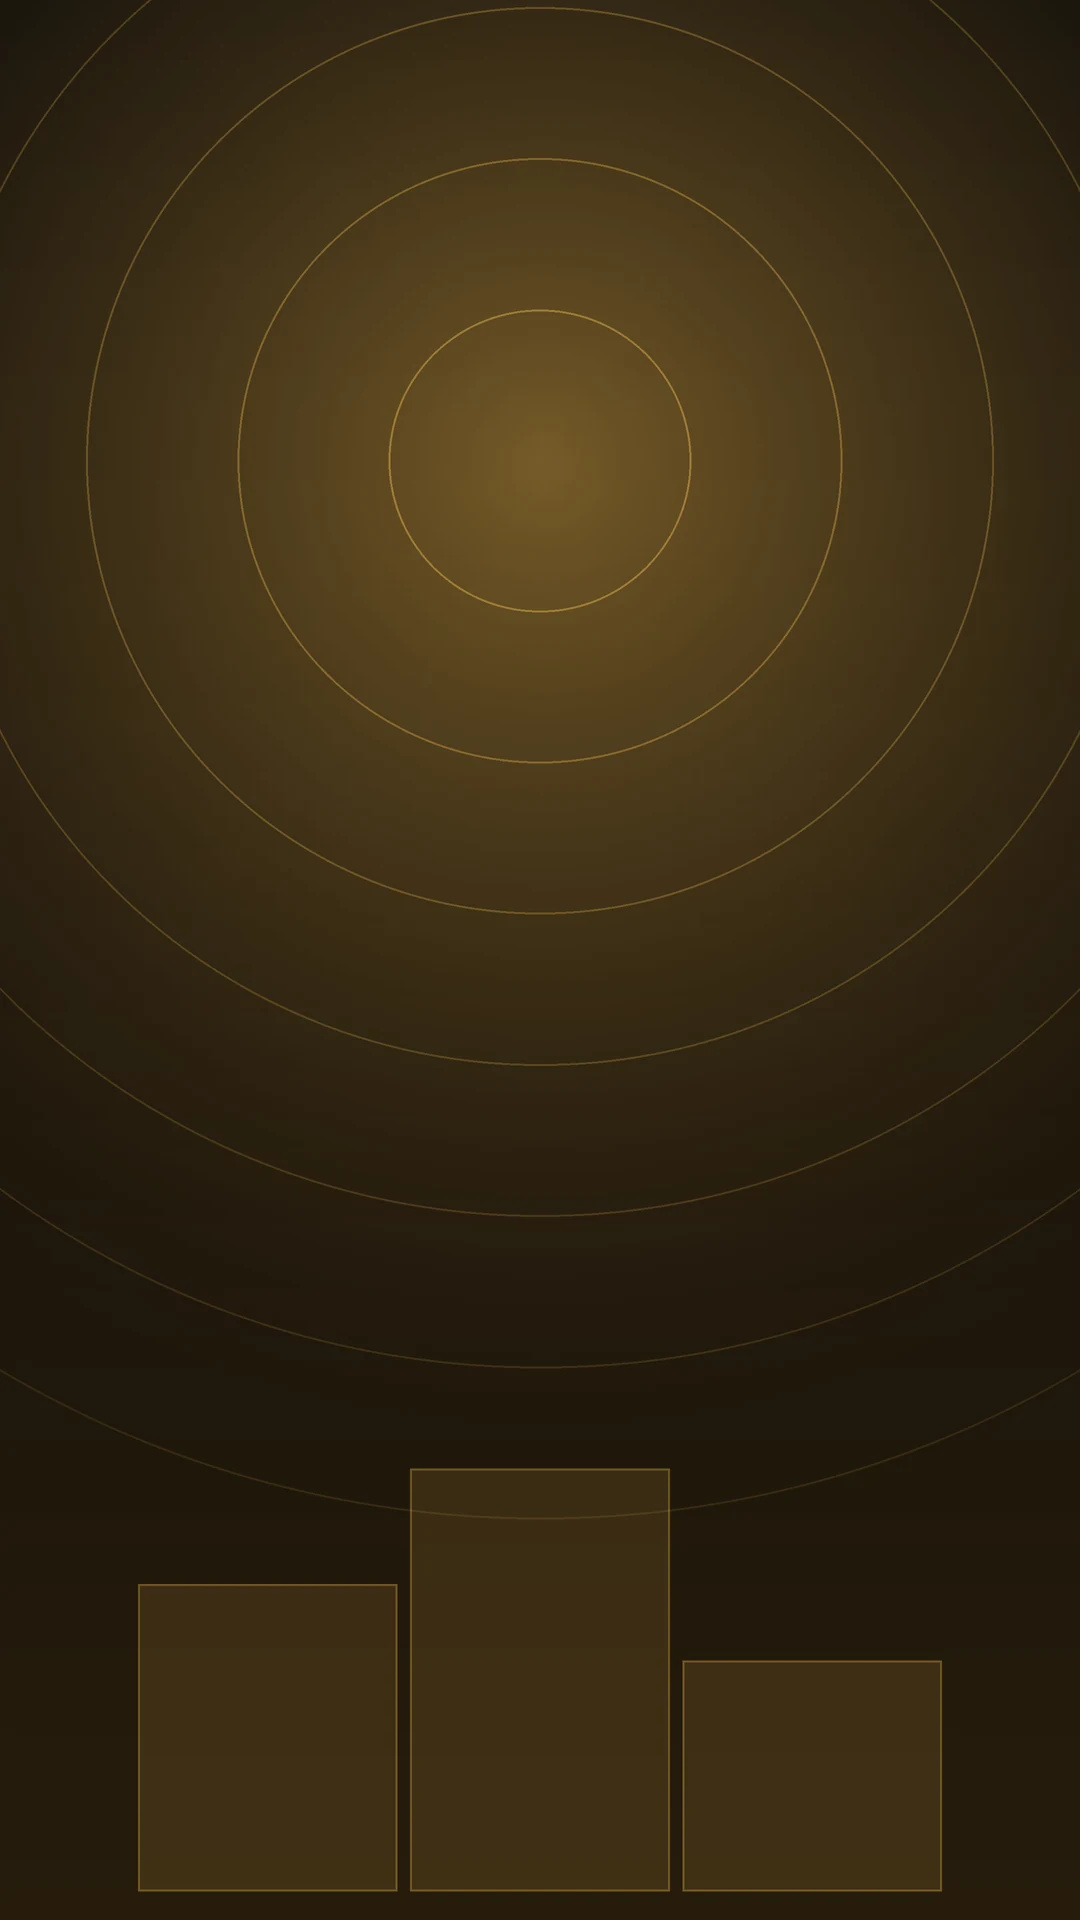
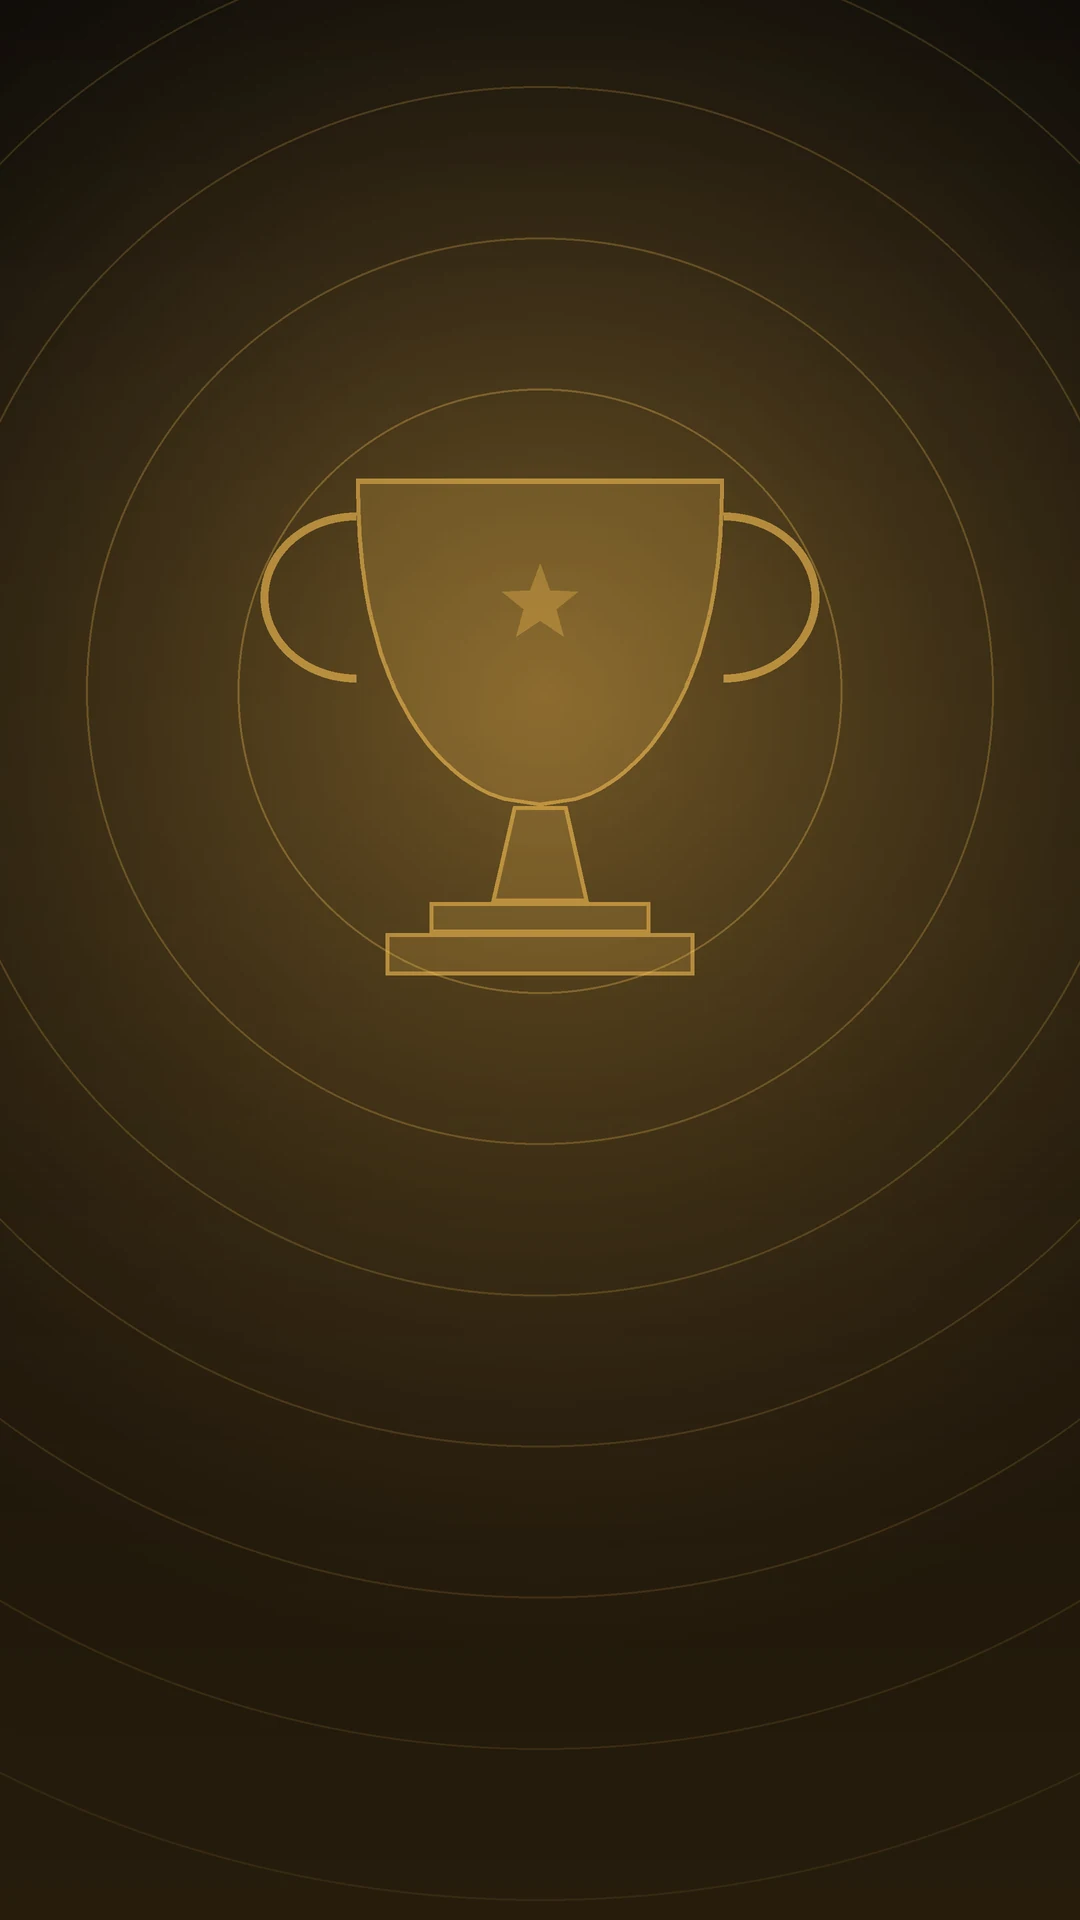
Фоны: у чемпионов кубок, у финалов (выбор, настройка, итоги) пьедесталы

diff --git a/lib/screens/finals_screen.dart b/lib/screens/finals_screen.dart
@@ -1,3 +1,4 @@
+import '../widgets/app_backdrop.dart';
 import 'finals_voice_settings_screen.dart';
 import '../finals/voice_packs.dart';
 import 'dart:math' as math;
@@ -42,7 +43,7 @@ class _FinalsScreenState extends State<FinalsScreen> {
       appBar: GlassHeader(
         title: Text(tr('Финалы'), style: theme.textTheme.titleMedium?.copyWith(fontWeight: FontWeight.w600)),
       ),
-      body: ListView(
+      body: AppBackdrop(kind: 'finals', child: ListView(
         padding: EdgeInsets.fromLTRB(16, MediaQuery.paddingOf(context).top + GlassHeader.height + 8, 16, 24),
         children: [
           Text(tr('Выберите финал'), style: theme.textTheme.titleSmall),
@@ -132,7 +133,7 @@ class _FinalsScreenState extends State<FinalsScreen> {
                 ),
               ),
         ],
-      ),
+      )),
     );
   }
 }
@@ -351,7 +352,7 @@ class _FinalSetupScreenState extends State<FinalSetupScreen> {
       appBar: GlassHeader(
         title: Text(tr(f.nameKey), style: theme.textTheme.titleMedium?.copyWith(fontWeight: FontWeight.w600), overflow: TextOverflow.ellipsis),
       ),
-      body: Column(
+      body: AppBackdrop(kind: 'finals', child: Column(
         children: [
           Expanded(
             child: ListView(
@@ -492,7 +493,7 @@ class _FinalSetupScreenState extends State<FinalSetupScreen> {
             ),
           ),
         ],
-      ),
+      )),
     );
   }
 }

diff --git a/lib/screens/final_run_screen.dart b/lib/screens/final_run_screen.dart
@@ -1,3 +1,4 @@
+import '../widgets/app_backdrop.dart';
 import 'dart:async';
 import 'dart:math' as math;
 
@@ -890,7 +891,7 @@ class FinalResultScreen extends StatelessWidget {
     return Scaffold(
       extendBodyBehindAppBar: true,
       appBar: GlassHeader(title: Text(title ?? tr('Итоги финала'), style: theme.textTheme.titleMedium?.copyWith(fontWeight: FontWeight.w600))),
-      body: ListView(
+      body: AppBackdrop(kind: 'finals', child: ListView(
         padding: EdgeInsets.fromLTRB(16, MediaQuery.paddingOf(context).top + GlassHeader.height + 8, 16, 24),
         children: [
           _protocol(context, st),
@@ -918,7 +919,7 @@ class FinalResultScreen extends StatelessWidget {
             label: Text(tr('Опубликовать среди чемпионов')),
           ),
         ],
-      ),
+      )),
     );
   }
 }

diff --git a/tools/gen_backgrounds.py b/tools/gen_backgrounds.py
@@ -118,7 +118,59 @@ def make(kind, theme, w, h):
         radial(img, cx, cy, int(W * 0.95), t['glow'], 0.70 if dark else 0.75)
         target(img, cx, cy, [step * k for k in range(1, 8)], ring, 0.55 if dark else 0.40, 0.82, lw)
     elif kind == 'champions':
-        # Чемпионы: тёплое золотое свечение сверху, золотистые кольца и три ступени пьедестала внизу
+        # Чемпионы: золотое свечение, кольца и кубок по центру
+        gold = (255, 196, 84) if dark else (176, 120, 20)
+        img = vgrad(W, H, (12, 10, 8), (38, 28, 12)) if dark else vgrad(W, H, (253, 250, 243), (240, 226, 190))
+        cx, cy = W / 2, H * 0.36
+        radial(img, cx, cy, int(W * 0.95), gold, 0.40 if dark else 0.28)
+        target(img, cx, cy, [step * k for k in range(2, 9)], gold, 0.30 if dark else 0.24, 0.80, lw)
+        lay = Image.new('RGBA', (W, H), (0, 0, 0, 0))
+        d = ImageDraw.Draw(lay)
+        fill = gold + (46 if dark else 40,)
+        line = gold + (150 if dark else 120,)
+        lwc = lw * 2
+        top = H * 0.25
+        cw = W * 0.34          # ширина чаши
+        ch = H * 0.17          # высота чаши
+        x0, x1 = cx - cw / 2, cx + cw / 2
+        # чаша: один контур — ровный верх и скруглённое дно (без шва)
+        bowl = []
+        steps_n = 60
+        for i in range(steps_n + 1):
+            t = i / steps_n
+            hw_t = (cw / 2) * (1 - t ** 2.3) ** 0.5
+            bowl.append((cx - hw_t, top + ch * t))
+        for i in range(steps_n, -1, -1):
+            t = i / steps_n
+            hw_t = (cw / 2) * (1 - t ** 2.3) ** 0.5
+            bowl.append((cx + hw_t, top + ch * t))
+        d.polygon(bowl, fill=fill, outline=line, width=lwc)
+        d.line([(x0, top), (x1, top)], fill=line, width=lwc)
+        # ручки
+        for sx in (-1, 1):
+            xo = cx + sx * cw / 2
+            hw = cw * 0.26
+            bbox = [xo - hw, top + ch * 0.10, xo + hw, top + ch * 0.62]
+            d.arc(bbox, 90 if sx < 0 else 270, 270 if sx < 0 else 90, fill=line, width=lwc * 2)
+        # ножка (расширяется книзу) и основание ступенями
+        sw = W * 0.05
+        stem_top = top + ch * 1.0
+        stem_bot = stem_top + H * 0.05
+        d.polygon([(cx - sw / 2, stem_top), (cx + sw / 2, stem_top), (cx + sw * 0.9, stem_bot), (cx - sw * 0.9, stem_bot)], fill=fill, outline=line, width=lwc)
+        d.rectangle([cx - cw * 0.30, stem_bot, cx + cw * 0.30, stem_bot + H * 0.016], fill=fill, outline=line, width=lwc)
+        d.rectangle([cx - cw * 0.42, stem_bot + H * 0.016, cx + cw * 0.42, stem_bot + H * 0.038], fill=fill, outline=line, width=lwc)
+        # звезда на чаше
+        sr = cw * 0.11
+        scy = top + ch * 0.38
+        pts = []
+        for i in range(10):
+            ang = -math.pi / 2 + i * math.pi / 5
+            rr = sr if i % 2 == 0 else sr * 0.42
+            pts.append((cx + rr * math.cos(ang), scy + rr * math.sin(ang)))
+        d.polygon(pts, fill=gold + (110 if dark else 90,))
+        img = Image.alpha_composite(img.convert('RGBA'), lay).convert('RGB')
+    elif kind == 'finals':
+        # Финалы: тёплое золотое свечение сверху, золотистые кольца и три ступени пьедестала внизу
         gold = (255, 196, 84) if dark else (176, 120, 20)
         img = vgrad(W, H, (12, 10, 8), (38, 28, 12)) if dark else vgrad(W, H, (253, 250, 243), (240, 226, 190))
         cx, cy = W / 2, H * 0.24
